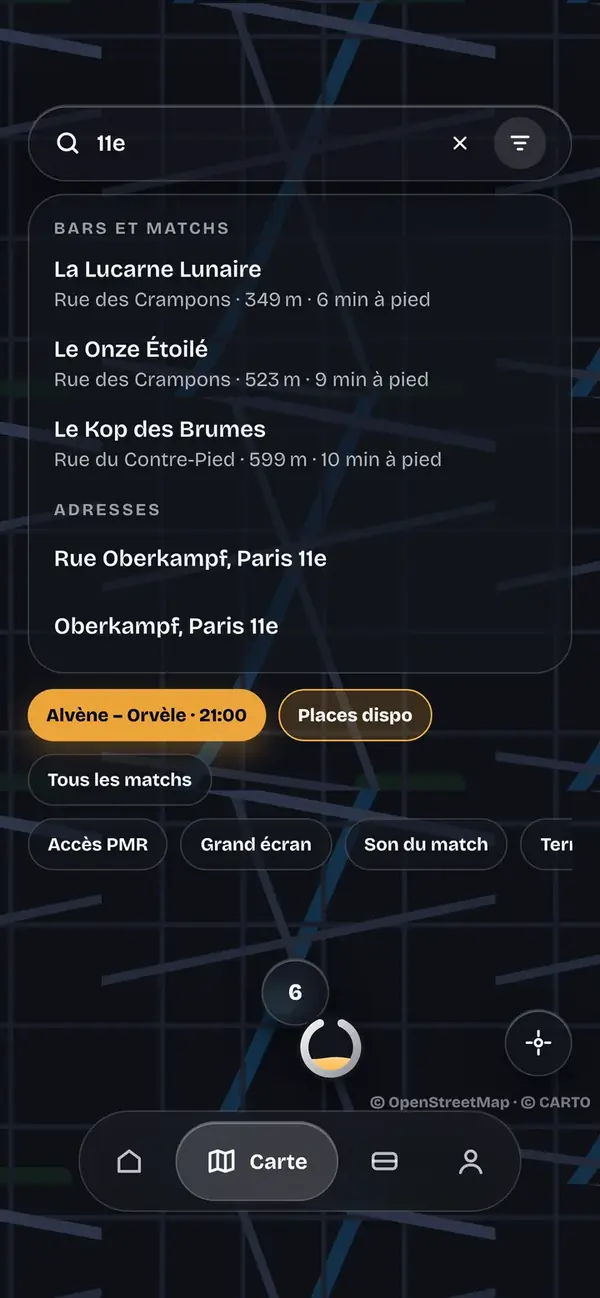
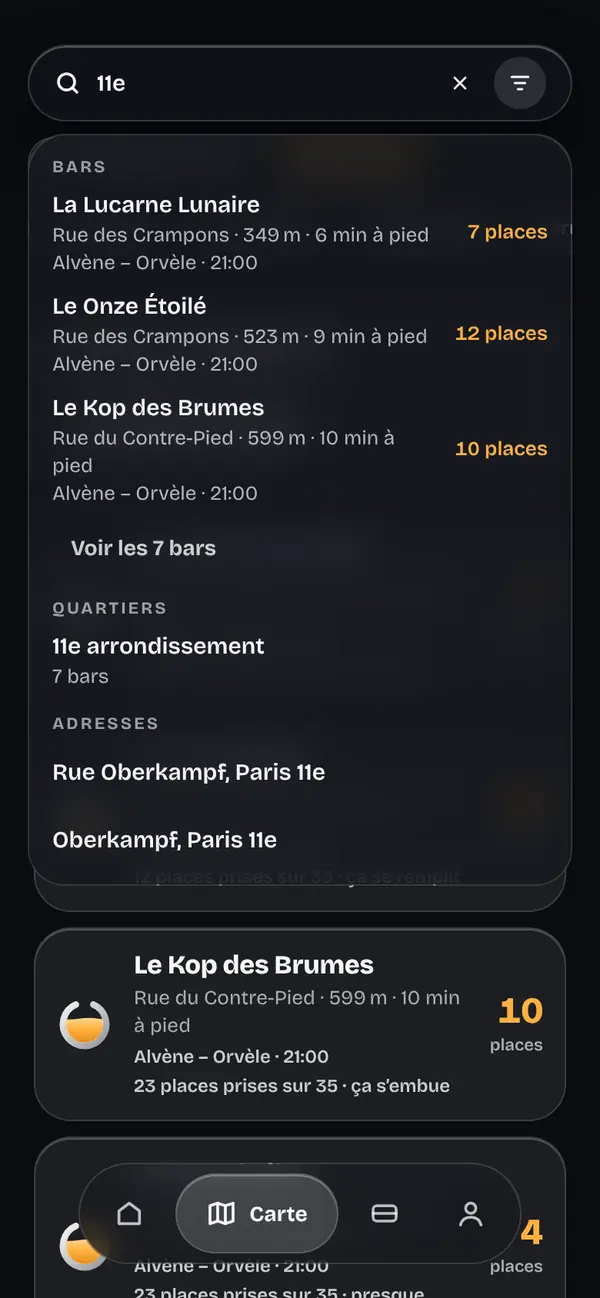
Accueil : les corrections des deux relectures (code et vérité, « trois visiteurs »)
- Presse : la phrase du film, coupée par une retouche ratée, est entière ; un test lit la phrase et vérifie qu’aucun
  morceau d’attribut ne traîne dans la page.
- Le film : quand la lecture automatique est refusée, le lecteur classique est à la personne ; une pause faite avec ses
  commandes tient (le défilement ne le relance plus).
- « Maintiens pour essayer » : un lecteur d’écran l’active d’un clic, sans pointeur, comme « Réserver sans maintenir »
  dans l’appli ; l’Espace tenu puis lâché trop tôt ne compte pas comme ce clic. Plus de vibration.
- Les phrases, au plus près de l’appli : la tablée (« Ceux qui la rejoignent dans l’appli ont chacun leur pass »,
  « jusqu’à 8 avec toi »), « Y aller » (ouvre le bar dans ton appli de cartes), la liste d’attente (le premier de la
  liste voit la place, elle n’est pas gardée), « Ce soir » (tout de suite s’il a déjà été regardé dans la journée).
- Plus court au téléphone : quatre écrans sur huit (les autres moments se lisent sans), des écrans un peu plus petits,
  des textes resserrés ; sur ordinateur, les huit, au bon format (292 px).
- La recherche de la carte, recapturée sans aucun plan derrière.
- Le texte du film dit aussi sa fin (l’album qui passe à 8 sous-bocks et 5 bars, 21:00, le verre qui se remplit), a
  le « + » des questions ; la note du film, plus simple.
- Les surtitres de l’accueil, neutres (l’ambre reste aux actions) ; la bande des bars dit la condition du lancement
[…]

diff --git a/index.html b/index.html
@@ -118,7 +118,7 @@
         <button class="film__bouton" id="film-lecture" type="button" hidden aria-label="Mettre le film en pause"><svg viewBox="0 0 24 24" fill="currentColor" aria-hidden="true" focusable="false"><path d="M7 5h3.5v14H7zM13.5 5H17v14h-3.5z"/></svg></button>
       </div>
       <figcaption class="film__legende">
-        <p class="film__note" id="film-note">Le film, sans le son, montre ce que dit le texte «&nbsp;Ce que montre le film&nbsp;», juste dessous. Ses bars, ses clubs, ses pseudos et ses chiffres sont inventés.</p>
+        <p class="film__note" id="film-note">Un film sans le son, raconté en mots juste dessous. Ses bars, ses clubs, ses pseudos et ses chiffres sont inventés.</p>
         <details class="film__texte" id="film-texte">
           <summary>Ce que montre le film</summary>
           <ol>
@@ -129,8 +129,8 @@
             <li>L’écran «&nbsp;Ta soirée&nbsp;»&nbsp;: «&nbsp;Ce soir · coup d’envoi 21:00&nbsp;», «&nbsp;Place gardée&nbsp;». Alvène – Orvèle, 21:00, au bar La Lucarne Lunaire, pour 1 personne, ton camp&nbsp;: juste le match. Le QR code du pass, et «&nbsp;Ou donne ce code&nbsp;».</li>
             <li>20:37. «&nbsp;Scanne le QR du bar&nbsp;», La Lucarne Lunaire · Alvène – Orvèle. Sur l’écran du bar&nbsp;: «&nbsp;Tu y es. Scanne-moi.&nbsp;» «&nbsp;Ouvre Baromatch, scanne ce code&nbsp;: ta place est validée et ton sous-bock se colle dans ton album.&nbsp;» Dessous, «&nbsp;ou entre son code&nbsp;».</li>
             <li>«&nbsp;Tu y es&nbsp;»&nbsp;: «&nbsp;Arrivée validée à 20:37 à La Lucarne Lunaire. Coup d’envoi dans 23 minutes.&nbsp;» «&nbsp;arrivée · deux vibrations&nbsp;», puis «&nbsp;Sous-bock n°08 collé&nbsp;».</li>
-            <li>20:38. «&nbsp;Ta soirée se colle dans ton album.&nbsp;» Le sous-bock n°08, Alvène – Orvèle, rejoint les autres&nbsp;: Alvène – Orvèle, Port-Ambrail – Brisecôte, Hautvergne – Mirebelle, Sablerive – Kerbrume, Lucival – Valbrume.</li>
-            <li>Baromatch. «&nbsp;Ton match. Ton bar. Ce soir.&nbsp;» «&nbsp;baromatch.fr&nbsp;» «&nbsp;Bientôt sur Android, à Paris&nbsp;»</li>
+            <li>20:38. «&nbsp;Ta soirée se colle dans ton album.&nbsp;» Le sous-bock n°08, Alvène – Orvèle, à La Lucarne Lunaire, se pose parmi les autres&nbsp;: Alvène – Orvèle, Port-Ambrail – Brisecôte, Hautvergne – Mirebelle, Sablerive – Kerbrume, Lucival – Valbrume. L’album passe de 7 à 8 sous-bocks, et de 4 à 5 bars.</li>
+            <li>21:00. Le sous-bock rejoint le verre de Baromatch, qui se remplit. Puis Baromatch&nbsp;: «&nbsp;Ton match. Ton bar. Ce soir.&nbsp;» «&nbsp;baromatch.fr&nbsp;» «&nbsp;Bientôt sur Android, à Paris&nbsp;»</li>
           </ol>
         </details>
       </figcaption>
@@ -138,9 +138,9 @@
   </section>
 
   <section class="soiree page" aria-labelledby="titre-soiree">
-    <p class="boutique-sur">Ce que fait l’appli aujourd’hui</p>
+    <p class="surtitre">Ce que fait l’appli aujourd’hui</p>
     <h2 class="titre-section" id="titre-soiree">Un soir de match, minute par minute.</h2>
-    <p class="soiree__chapo">L’appli est en test à Paris. Sur ses écrans, les bars, les clubs et les pseudos sont inventés.</p>
+    <p class="soiree__chapo">Sur ces écrans, les bars, les clubs et les pseudos sont inventés.</p>
     <!-- Sur ordinateur, les écrans restent à côté du texte, l’un sur l’autre : main.js montre celui du moment qui passe au
          milieu de la fenêtre. Au téléphone, chaque écran suit son moment. -->
     <div class="instants">
@@ -148,64 +148,64 @@
         <div class="instant__corps">
           <p class="instant__heure"><time>18:42</time></p>
           <h3 class="instant__titre">«&nbsp;Ce soir&nbsp;», tout de suite</h3>
-          <p class="instant__texte">Tu ouvres l’appli&nbsp;: le match de ce soir et les bars qui le passent sont déjà là. «&nbsp;Près de toi&nbsp;» te montre les bars les plus proches qui ont encore de la place, avec le temps à pied. Ta position reste sur ton téléphone.</p>
+          <p class="instant__texte">Tu ouvres l’appli&nbsp;: le match de ce soir, et les bars qui le passent. Déjà regardé aujourd’hui&nbsp;? Ils s’affichent tout de suite, même si le réseau traîne. «&nbsp;Près de toi&nbsp;» montre les plus proches qui ont encore de la place, avec le temps à pied. Ta position reste sur ton téléphone.</p>
         </div>
         <figure class="instant__ecran"><span class="exemple">Écran de démonstration</span>
-          <div class="telephone"><div class="telephone__ecran"><img src="/img/appli/ce-soir-300.webp" srcset="/img/appli/ce-soir-300.webp 300w, /img/appli/ce-soir-600.webp 600w" sizes="(min-width: 960px) 320px, 208px" width="300" height="649" loading="lazy" decoding="async" alt="L’écran Ce soir de l’appli&nbsp;: Alvène – Orvèle à 21:00, en Coupe des Faubourgs, puis Près de toi&nbsp;: La Lucarne Lunaire à 6 min à pied, encore 7 places, et Le Onze Étoilé à 9 min, encore 12 places."></div></div>
+          <div class="telephone"><div class="telephone__ecran"><img src="/img/appli/ce-soir-300.webp" srcset="/img/appli/ce-soir-300.webp 300w, /img/appli/ce-soir-600.webp 600w" sizes="(min-width: 960px) 292px, 192px" width="300" height="649" loading="lazy" decoding="async" alt="L’écran Ce soir de l’appli&nbsp;: Alvène – Orvèle à 21:00, en Coupe des Faubourgs, puis Près de toi&nbsp;: La Lucarne Lunaire à 6 min à pied, encore 7 places, et Le Onze Étoilé à 9 min, encore 12 places."></div></div>
         </figure>
       </div>
       <div class="instant">
         <div class="instant__corps">
           <p class="instant__heure"><time>18:50</time></p>
-          <h3 class="instant__titre">Complet&nbsp;? La liste d’attente</h3>
-          <p class="instant__texte">Le bar que tu voulais est plein&nbsp;? Mets-toi sur sa liste d’attente. Si une place se libère avant le coup d’envoi, l’appli te le dit, et elle va au premier qui la prend.</p>
+          <h3 class="instant__titre">Bar complet&nbsp;? Mets-toi sur la liste</h3>
+          <p class="instant__texte">Une place se libère avant le coup d’envoi, et tu es premier sur la liste&nbsp;? Tu la vois dans l’appli. Prends-la vite&nbsp;: elle n’est pas gardée pour toi.</p>
         </div>
-        <figure class="instant__ecran"><span class="exemple">Écran de démonstration</span>
-          <div class="telephone"><div class="telephone__ecran"><img src="/img/appli/liste-attente-300.webp" srcset="/img/appli/liste-attente-300.webp 300w, /img/appli/liste-attente-600.webp 600w" sizes="(min-width: 960px) 320px, 208px" width="300" height="649" loading="lazy" decoding="async" alt="La page d’un bar complet, Chez Zénon&nbsp;: une place s’est libérée pour Alvène – Orvèle, et le bouton «&nbsp;Prendre ma place&nbsp;»."></div></div>
+        <figure class="instant__ecran instant__ecran--large"><span class="exemple">Écran de démonstration</span>
+          <div class="telephone"><div class="telephone__ecran"><img src="/img/appli/liste-attente-300.webp" srcset="/img/appli/liste-attente-300.webp 300w, /img/appli/liste-attente-600.webp 600w" sizes="(min-width: 960px) 292px, 192px" width="300" height="649" loading="lazy" decoding="async" alt="La page d’un bar complet, Chez Zénon&nbsp;: une place s’est libérée pour Alvène – Orvèle, et le bouton «&nbsp;Prendre ma place&nbsp;»."></div></div>
         </figure>
       </div>
       <div class="instant">
         <div class="instant__corps">
           <p class="instant__heure"><time>19:05</time></p>
           <h3 class="instant__titre">La carte cherche pour toi</h3>
-          <p class="instant__texte">Tape un club, un bar, un quartier ou une adresse. Garde seulement les bars qui ont de la place, un grand écran, le son du match, une terrasse ou un accès PMR.</p>
+          <p class="instant__texte">Tape un club, un bar, un quartier ou une adresse. Filtre les bars&nbsp;: de la place, un grand écran, le son du match, une terrasse, un accès PMR.</p>
         </div>
-        <figure class="instant__ecran"><span class="exemple">Écran de démonstration</span>
-          <div class="telephone"><div class="telephone__ecran"><img src="/img/appli/carte-recherche-300.webp" srcset="/img/appli/carte-recherche-300.webp 300w, /img/appli/carte-recherche-600.webp 600w" sizes="(min-width: 960px) 320px, 208px" width="300" height="649" loading="lazy" decoding="async" alt="La carte de l’appli, avec la recherche «&nbsp;11e&nbsp;»&nbsp;: des bars du 11e, comme La Lucarne Lunaire rue des Crampons, et des adresses du quartier."></div></div>
+        <figure class="instant__ecran instant__ecran--large"><span class="exemple">Écran de démonstration</span>
+          <div class="telephone"><div class="telephone__ecran"><img src="/img/appli/carte-recherche-300.webp" srcset="/img/appli/carte-recherche-300.webp 300w, /img/appli/carte-recherche-600.webp 600w" sizes="(min-width: 960px) 292px, 192px" width="300" height="649" loading="lazy" decoding="async" alt="La recherche de l’appli, avec «&nbsp;11e&nbsp;»&nbsp;: des bars du 11e, comme La Lucarne Lunaire rue des Crampons, à 6 min à pied, encore 7 places, puis le quartier et des adresses."></div></div>
         </figure>
       </div>
       <div class="instant">
         <div class="instant__corps">
           <p class="instant__heure"><time>19:12</time></p>
           <h3 class="instant__titre">Garde ta place d’un geste</h3>
-          <p class="instant__texte">Tiens le bouton&nbsp;: le verre monte, la place est à toi. Pour toi seul ou jusqu’à 8, et c’est gratuit. Lâche avant la fin&nbsp;: rien n’est réservé.</p>
+          <p class="instant__texte">Maintiens le bouton&nbsp;: le verre se remplit, et la place est à toi, gratuitement. Lâche avant la fin&nbsp;: rien n’est réservé.</p>
           <div class="essai" id="essai" hidden>
             <button class="essai__bouton" id="essai-bouton" type="button"><span class="essai__verre" aria-hidden="true"><span class="essai__liquide"></span></span><span id="essai-mot">Maintiens pour essayer</span></button>
             <p class="essai__note" id="essai-note" role="status">Ici, c’est un essai&nbsp;: rien n’est réservé.</p>
           </div>
         </div>
         <figure class="instant__ecran"><span class="exemple">Écran de démonstration</span>
-          <div class="telephone"><div class="telephone__ecran"><img src="/img/appli/bar-300.webp" srcset="/img/appli/bar-300.webp 300w, /img/appli/bar-600.webp 600w" sizes="(min-width: 960px) 320px, 208px" width="300" height="649" loading="lazy" decoding="async" alt="La page d’un bar dans l’appli&nbsp;: La Lucarne Lunaire, 14 rue des Crampons, à 6 min à pied. Coin des supporters d’Orvèle, grand écran, 5 écrans, son du match, debout, les deux camps. 4 places prises, et le bouton «&nbsp;Prendre ma place&nbsp;»."></div></div>
+          <div class="telephone"><div class="telephone__ecran"><img src="/img/appli/bar-300.webp" srcset="/img/appli/bar-300.webp 300w, /img/appli/bar-600.webp 600w" sizes="(min-width: 960px) 292px, 192px" width="300" height="649" loading="lazy" decoding="async" alt="La page d’un bar dans l’appli&nbsp;: La Lucarne Lunaire, 14 rue des Crampons, à 6 min à pied. Coin des supporters d’Orvèle, grand écran, 5 écrans, son du match, debout, les deux camps. 4 places prises, et le bouton «&nbsp;Prendre ma place&nbsp;»."></div></div>
         </figure>
       </div>
       <div class="instant">
         <div class="instant__corps">
           <p class="instant__heure"><time>19:13</time></p>
           <h3 class="instant__titre">Ton pass, même sans réseau</h3>
-          <p class="instant__texte">Ta place t’attend dans «&nbsp;Ta soirée&nbsp;»&nbsp;: un QR code et un code à 6 chiffres, qui s’affichent même sans réseau. «&nbsp;Y aller&nbsp;» t’ouvre le chemin à pied.</p>
+          <p class="instant__texte">Ta place t’attend dans «&nbsp;Ta soirée&nbsp;»&nbsp;: un QR code et un code à 6 chiffres, qui s’affichent même sans réseau. «&nbsp;Y aller&nbsp;» ouvre le bar dans ton appli de cartes.</p>
         </div>
         <figure class="instant__ecran"><span class="exemple">Écran de démonstration</span>
-          <div class="telephone"><div class="telephone__ecran"><img src="/img/appli/ta-soiree-300.webp" srcset="/img/appli/ta-soiree-300.webp 300w, /img/appli/ta-soiree-600.webp 600w" sizes="(min-width: 960px) 320px, 208px" width="300" height="649" loading="lazy" decoding="async" alt="Ta soirée dans l’appli&nbsp;: Alvène – Orvèle à 21:00, à La Lucarne Lunaire, pour 1 personne, le QR code du pass et son code, et le bouton «&nbsp;Y aller · 6 min à pied&nbsp;»."></div></div>
+          <div class="telephone"><div class="telephone__ecran"><img src="/img/appli/ta-soiree-300.webp" srcset="/img/appli/ta-soiree-300.webp 300w, /img/appli/ta-soiree-600.webp 600w" sizes="(min-width: 960px) 292px, 192px" width="300" height="649" loading="lazy" decoding="async" alt="Ta soirée dans l’appli&nbsp;: Alvène – Orvèle à 21:00, à La Lucarne Lunaire, pour 1 personne, le QR code du pass et son code, et le bouton «&nbsp;Y aller · 6 min à pied&nbsp;»."></div></div>
         </figure>
       </div>
       <div class="instant">
         <div class="instant__corps">
           <p class="instant__heure"><time>19:20</time></p>
           <h3 class="instant__titre">Toute la bande à la même table</h3>
-          <p class="instant__texte">Tu gardes des places pour tes potes, jusqu’à 8, et tu leur envoies le lien de ta tablée. Chacun a son pass. Tu peux aussi partager l’image «&nbsp;J’y vais&nbsp;» en story.</p>
+          <p class="instant__texte">Garde des places pour ta bande, jusqu’à 8 avec toi, et envoie-leur le lien de ta tablée. Ceux qui la rejoignent dans l’appli ont chacun leur pass. Tu peux aussi l’annoncer en story, avec l’image de ta soirée.</p>
         </div>
-        <figure class="instant__ecran"><span class="exemple">Écran de démonstration</span>
-          <div class="telephone"><div class="telephone__ecran"><img src="/img/appli/tablee-300.webp" srcset="/img/appli/tablee-300.webp 300w, /img/appli/tablee-600.webp 600w" sizes="(min-width: 960px) 320px, 208px" width="300" height="649" loading="lazy" decoding="async" alt="Ta tablée, sous ton pass&nbsp;: 2 places prises sur 4, toi et plume.r, et 2 libres. «&nbsp;Envoie le lien à ta bande avant 21:00.&nbsp;» Les boutons «&nbsp;Inviter des potes&nbsp;» et «&nbsp;Copier le lien&nbsp;»."></div></div>
+        <figure class="instant__ecran instant__ecran--large"><span class="exemple">Écran de démonstration</span>
+          <div class="telephone"><div class="telephone__ecran"><img src="/img/appli/tablee-300.webp" srcset="/img/appli/tablee-300.webp 300w, /img/appli/tablee-600.webp 600w" sizes="(min-width: 960px) 292px, 192px" width="300" height="649" loading="lazy" decoding="async" alt="Ta tablée, sous ton pass&nbsp;: 2 places prises sur 4, toi et plume.r, et 2 libres. «&nbsp;Envoie le lien à ta bande avant 21:00.&nbsp;» Les boutons «&nbsp;Inviter des potes&nbsp;» et «&nbsp;Copier le lien&nbsp;»."></div></div>
         </figure>
       </div>
       <div class="instant">
@@ -214,22 +214,22 @@
           <h3 class="instant__titre">«&nbsp;Je suis en retard&nbsp;»</h3>
           <p class="instant__texte">Le métro traîne&nbsp;? Préviens le bar&nbsp;: 10, 20 ou 30 minutes. Avant d’envoyer, tu vois jusqu’à quelle heure ta place t’attend.</p>
         </div>
-        <figure class="instant__ecran"><span class="exemple">Écran de démonstration</span>
-          <div class="telephone"><div class="telephone__ecran"><img src="/img/appli/en-retard-300.webp" srcset="/img/appli/en-retard-300.webp 300w, /img/appli/en-retard-600.webp 600w" sizes="(min-width: 960px) 320px, 208px" width="300" height="649" loading="lazy" decoding="async" alt="Ta soirée, «&nbsp;Tu arrives dans combien de temps&nbsp;?&nbsp;»&nbsp;: 10, 20 ou 30 min. «&nbsp;Ta place est gardée jusqu’à 21:30.&nbsp;» Le bouton «&nbsp;Prévenir le bar&nbsp;»."></div></div>
+        <figure class="instant__ecran instant__ecran--large"><span class="exemple">Écran de démonstration</span>
+          <div class="telephone"><div class="telephone__ecran"><img src="/img/appli/en-retard-300.webp" srcset="/img/appli/en-retard-300.webp 300w, /img/appli/en-retard-600.webp 600w" sizes="(min-width: 960px) 292px, 192px" width="300" height="649" loading="lazy" decoding="async" alt="Ta soirée, «&nbsp;Tu arrives dans combien de temps&nbsp;?&nbsp;»&nbsp;: 10, 20 ou 30 min. «&nbsp;Ta place est gardée jusqu’à 21:30.&nbsp;» Le bouton «&nbsp;Prévenir le bar&nbsp;»."></div></div>
         </figure>
       </div>
       <div class="instant">
         <div class="instant__corps">
           <p class="instant__heure"><time>20:37</time></p>
           <h3 class="instant__titre">Tu y es</h3>
-          <p class="instant__texte">Au bar, scanne le QR du comptoir, ou montre ton pass à l’équipe. Deux vibrations&nbsp;: tu y es. Ta soirée devient un sous-bock aux noms des deux clubs, qui se colle dans ton album.</p>
+          <p class="instant__texte">Arrivé, scanne le QR du bar ou montre ton pass à l’équipe. Deux vibrations&nbsp;: tu y es. Ta soirée devient un sous-bock aux noms des deux clubs, collé dans ton album.</p>
         </div>
         <figure class="instant__ecran"><span class="exemple">Écran de démonstration</span>
-          <div class="telephone"><div class="telephone__ecran"><img src="/img/appli/tu-y-es-300.webp" srcset="/img/appli/tu-y-es-300.webp 300w, /img/appli/tu-y-es-600.webp 600w" sizes="(min-width: 960px) 320px, 208px" width="300" height="649" loading="lazy" decoding="async" alt="Tu y es&nbsp;: arrivée validée à 20:37 à La Lucarne Lunaire, coup d’envoi dans 23 minutes. Sous-bock n°08 collé."></div></div>
+          <div class="telephone"><div class="telephone__ecran"><img src="/img/appli/tu-y-es-300.webp" srcset="/img/appli/tu-y-es-300.webp 300w, /img/appli/tu-y-es-600.webp 600w" sizes="(min-width: 960px) 292px, 192px" width="300" height="649" loading="lazy" decoding="async" alt="Tu y es&nbsp;: arrivée validée à 20:37 à La Lucarne Lunaire, coup d’envoi dans 23 minutes. Sous-bock n°08 collé."></div></div>
         </figure>
       </div>
     </div>
-    <p class="soiree__notifs">Et au plus une notification par match. Une heure avant le coup d’envoi, une ligne calme sur ton écran verrouillé te rappelle ta place.</p>
+    <p class="soiree__notifs">Au plus une notification par match. Et une heure avant le coup d’envoi, une ligne calme sur ton écran verrouillé&nbsp;: ta place t’attend.</p>
     <p class="rappel-attente"><a class="capsule" href="#attente">L’appli ouvre bientôt&nbsp;: préviens-moi</a></p>
     <p class="soiree__suite"><a href="/ce-soir/">Où regarder le match ce soir</a></p>
   </section>
@@ -238,7 +238,7 @@
     <div class="bars__contenu page">
       <div>
         <h2 class="titre-section" id="titre-bars">Ton bar diffuse les matchs&nbsp;?</h2>
-        <p class="bars__texte">Baromatch cherche ses premiers bars à Paris. Tu choisis combien de places tu ouvres.</p>
+        <p class="bars__texte">Baromatch cherche ses premiers bars à Paris. Tu choisis combien de places tu ouvres. Gratuit pendant le lancement, sans engagement.</p>
         <div class="bars__actions">
           <a class="bouton-nuit" href="/pour-les-bars.html#proposer">Proposer mon bar</a>
           <a href="mailto:contact@baromatch.fr">contact@baromatch.fr</a>
@@ -257,12 +257,13 @@
       <div><dt>Pour qui</dt><dd>Les fans de foot de 18&nbsp;ans et plus, et les bars qui diffusent les matchs.</dd></div>
       <div><dt>Qui</dt><dd>Baromatch est édité par Skander Kamoun, son fondateur.</dd></div>
       <div><dt>Contact</dt><dd><a href="mailto:contact@baromatch.fr">contact@<wbr>baromatch.fr</a></dd></div>
+      <div><dt>Presse</dt><dd><a href="/presse.html">Logos, film, images et contact</a></dd></div>
     </dl>
     <p class="en-bref__suite"><a href="/trouver-un-bar-qui-diffuse-le-match.html">Comment trouver un bar qui diffuse le match</a></p>
   </section>
 
   <section class="testeurs-accueil vitrine-accueil page" aria-labelledby="titre-testeurs">
-    <p class="boutique-sur">Testeurs Android</p>
+    <p class="surtitre">Testeurs Android</p>
     <h2 class="titre-section" id="titre-testeurs">Teste Baromatch avant son ouverture.</h2>
     <p class="testeurs-accueil__texte">Tu as 18&nbsp;ans ou plus, un téléphone Android et un compte Google&nbsp;? Inscris-toi au test fermé de l’appli sur Google Play&nbsp;: tu restes inscrit au moins 14&nbsp;jours d’affilée, tu t’en sers, et tu nous dis ce que tu en penses. Rien n’est payé.</p>
     <a class="vitrine-accueil__bouton vitrine-accueil__bouton--verre" href="/testeurs-android.html">Deviens testeur Android</a>
@@ -306,7 +307,7 @@
   </section>
 
   <section class="vitrine-accueil page" aria-labelledby="titre-boutique">
-    <p class="boutique-sur">Nouveau</p>
+    <p class="surtitre">Nouveau</p>
     <h2 class="titre-section" id="titre-boutique">La boutique arrive.</h2>
     <p class="vitrine-accueil__texte">T-shirt, sweat, casquette, écharpe, tote bag et sous-bocks&nbsp;: des pièces Baromatch pour les soirs de match, sans aucun club dessus. Choisis les tiennes dès maintenant&nbsp;: on t’écrit à l’ouverture, sans rien payer.</p>
     <a class="vitrine-accueil__bouton vitrine-accueil__bouton--verre" href="/boutique.html">Voir la boutique</a>

diff --git a/main.js b/main.js
@@ -196,11 +196,9 @@
   });
 })();
 
-/* Le film, sans le son : il part seul, muet, en boucle, quand il arrive à l’écran (preload="none" : rien ne se charge
-   avant), et s’arrête quand il en sort. Le bouton du cadre l’arrête (WCAG 2.2.2) et la pause tient : le film ne repart
-   pas en revenant à l’écran. Le bouton dit ce qu’il fera (« Mettre le film en pause » / « Lire le film »), sans état
-   « enfoncé » qui contredirait son nom (4.1.2). En mouvement réduit, en économie de données, ou si le navigateur refuse
-   la lecture automatique, le lecteur classique remplace le bouton. */
+/* Le film, sans le son : il part seul, en boucle, à l’écran (rien ne se charge avant), et s’arrête hors de l’écran.
+   Son bouton l’arrête (WCAG 2.2.2), et la pause tient. Le bouton dit ce qu’il fera, sans état « enfoncé » (4.1.2). En
+   mouvement réduit, en économie de données, ou si la lecture automatique est refusée : le lecteur classique. */
 (function () {
   var video = document.getElementById("film");
   var lecture = document.getElementById("film-lecture");
@@ -211,17 +209,18 @@
   var econome = navigator.connection && navigator.connection.saveData;
   // Vrai quand la personne a mis le film en pause : il ne repart alors que par son bouton.
   var arreteParToi = false;
+  var observateur = null;
 
-  // Le focus du bouton qui s’efface passe au lecteur classique qui le remplace, pas à la page.
+  // Le focus du bouton passe au lecteur classique, qui est à la personne : le défilement ne le lance plus.
   function lecteurClassique() {
     var avaitLeFocus = document.activeElement === lecture;
+    if (observateur) observateur.disconnect();
     video.controls = true;
     lecture.hidden = true;
     if (avaitLeFocus) video.focus();
   }
 
-  // Une lecture refusée (lecture automatique bloquée, film illisible) passe au lecteur classique. Une lecture annulée
-  // par une pause avant d’avoir commencé (AbortError : le film se chargeait encore) n’est pas un refus.
+  // Une lecture refusée passe au lecteur classique ; une lecture annulée par une pause (AbortError) n’est pas un refus.
   function lire() {
     var essai = video.play();
     if (essai && essai.catch) {
@@ -245,12 +244,13 @@
   video.addEventListener("play", direLaLecture);
   video.addEventListener("pause", direLaLecture);
   if ("IntersectionObserver" in window) {
-    new IntersectionObserver(function (entrees) {
+    observateur = new IntersectionObserver(function (entrees) {
       entrees.forEach(function (entree) {
         if (!entree.isIntersecting) video.pause();
         else if (!arreteParToi) lire();
       });
-    }, { threshold: 0.35 }).observe(video);
+    }, { threshold: 0.35 });
+    observateur.observe(video);
   }
 
   lecture.addEventListener("click", function () {
@@ -260,9 +260,8 @@
   });
 })();
 
-/* Un soir de match, minute par minute. Ses écrans ne se chargent qu’en approchant (.est-proche, 600 px avant) : le
-   premier affichage de l’accueil n’en paie aucun. Sur ordinateur, ils sont empilés à côté des moments (.instant), et
-   celui du moment qui passe au milieu de la fenêtre se montre (.est-actif). */
+/* Un soir de match : ses écrans ne se chargent qu’à 600 px de la section (.est-proche). Sur ordinateur, ils sont
+   empilés à côté des moments (.instant), et celui du moment au milieu de la fenêtre se montre (.est-actif). */
 (function () {
   var soiree = document.querySelector(".soiree");
   var instants = document.querySelectorAll(".instant");
@@ -279,8 +278,7 @@
   }, { rootMargin: "600px 0px" });
   approche.observe(soiree);
 
-  // Les moments dans la bande du milieu de la fenêtre (30 % de sa hauteur) ; le plus proche du milieu est le moment en
-  // cours. Bande vide (au-dessus ou au-dessous de la liste) : le moment en cours ne change pas.
+  // Parmi les moments dans la bande du milieu (30 % de la fenêtre), le plus proche du milieu ; bande vide : rien ne change.
   var dansLaBande = [];
   var milieu = new IntersectionObserver(function (entrees) {
     entrees.forEach(function (entree) {
@@ -304,8 +302,8 @@
 
 /* « Maintiens pour essayer » : le geste de l’appli. Tenir le bouton (doigt, souris, ou Espace et Entrée au clavier)
    remplit le verre en 1,4 s ; lâcher avant le vide. Plein, il dit « Place gardée. », puis revient au départ. Rien
-   n’est envoyé ni réservé : la note, lue par les lecteurs d’écran (role="status"), le dit. En mouvement réduit, un
-   appui suffit. */
+   n’est envoyé ni réservé : la note, lue par les lecteurs d’écran (role="status"), le dit. En mouvement réduit, ou
+   avec un lecteur d’écran (un clic sans pointeur), un appui suffit. */
 (function () {
   var essai = document.getElementById("essai");
   var bouton = document.getElementById("essai-bouton");
@@ -317,13 +315,14 @@
   var DEPART = note.textContent;
   var minuteur = 0;
   var retour = 0;
+  // Vrai le temps d’une touche tenue : l’Espace lâché ne doit pas compter comme un clic de lecteur d’écran.
+  var clavier = false;
 
   function remplir() {
     bouton.classList.remove("est-tenu");
     bouton.classList.add("est-plein");
     mot.textContent = "Place gardée.";
     note.textContent = "C’était un essai\u00a0: rien n’est réservé.";
-    if (navigator.vibrate) navigator.vibrate(12);
     retour = setTimeout(function () {
       bouton.classList.remove("est-plein");
       mot.textContent = "Maintiens pour essayer";
@@ -335,6 +334,7 @@
     if (evenement.type === "keydown" && (evenement.repeat || (evenement.key !== " " && evenement.key !== "Enter"))) return;
     if (evenement.type === "pointerdown" && evenement.button !== 0) return;
     evenement.preventDefault();
+    if (evenement.type === "keydown") clavier = true;
     if (bouton.classList.contains("est-plein") || bouton.classList.contains("est-tenu")) return;
     clearTimeout(retour);
     if (calme) {
@@ -345,11 +345,12 @@
     minuteur = setTimeout(remplir, 1400);
   }
 
-  function lacher() {
+  function lacher(evenement) {
+    if (evenement.type === "keyup") setTimeout(function () { clavier = false; }, 0);
     if (!bouton.classList.contains("est-tenu")) return;
     clearTimeout(minuteur);
     bouton.classList.remove("est-tenu");
-    note.textContent = "Lâché trop tôt\u00a0: le verre se vide. Garde le doigt appuyé jusqu’au bout.";
+    note.textContent = "Lâché trop tôt\u00a0: le verre se vide. Tiens jusqu’au bout.";
   }
 
   bouton.addEventListener("pointerdown", tenir);
@@ -358,5 +359,13 @@
     bouton.addEventListener(type, lacher);
   });
   bouton.addEventListener("contextmenu", function (evenement) { evenement.preventDefault(); });
+  // Un lecteur d’écran active un bouton par un simple clic, sans pointeur ni touche tenue : ce clic remplit le verre, comme
+  // « Réserver sans maintenir » dans l’appli.
+  bouton.addEventListener("click", function (evenement) {
+    if (evenement.detail === 0 && !clavier && !bouton.classList.contains("est-plein")) {
+      clearTimeout(retour);
+      remplir();
+    }
+  });
   essai.hidden = false;
 })();

diff --git a/styles.css b/styles.css
@@ -479,10 +479,13 @@ a:hover { color: var(--goutte); }
   letter-spacing: -0.02em;
 }
 
+/* Le surtitre d’une section : il dit de quoi elle parle, en petites capitales, sans ambre (l’ambre est pour les actions). */
+.surtitre { margin: 0 0 14px; color: var(--texte-discret); font-size: 0.8125rem; font-weight: 700; letter-spacing: 0.14em; text-transform: uppercase; }
+
 .soiree__chapo { max-width: 34rem; margin: 20px 0 0; color: var(--texte-doux); }
 
 /* Un moment de la soirée (.instant) : l’heure, ce qui se passe, une phrase ou deux, puis son écran (au téléphone). */
-.instants { display: grid; grid-template-columns: minmax(0, 1fr); gap: 64px; margin-top: 56px; }
+.instants { display: grid; grid-template-columns: minmax(0, 1fr); gap: 48px; margin-top: 48px; }
 .instant__corps { max-width: 34rem; }
 .instant__heure {
   margin: 0 0 6px;
@@ -494,7 +497,9 @@ a:hover { color: var(--goutte); }
 }
 .instant__titre { margin: 0; font-size: 1.375rem; font-weight: 750; line-height: 1.2; text-wrap: balance; }
 .instant__texte { margin: 10px 0 0; color: var(--texte-doux); }
-.instant__ecran { position: relative; width: 13rem; max-width: 100%; margin: 32px auto 0; }
+.instant__ecran { position: relative; width: 12rem; max-width: 100%; margin: 28px auto 0; }
+/* Au téléphone, quatre écrans sur huit : les autres moments se lisent sans (la page reste courte). */
+@media (max-width: 959px) { .instant__ecran--large { display: none; } }
 /* Les écrans ne se chargent qu’en approchant de la soirée (main.js pose .est-proche) : la place de chacun est gardée,
    rien ne bouge quand il arrive. */
 .instant__ecran .telephone__ecran { aspect-ratio: 300 / 649; }
@@ -852,7 +857,7 @@ a:hover { color: var(--goutte); }
     grid-column: 3;
     grid-row: 1 / -1;
     align-self: center;
-    width: clamp(15rem, calc((100vh - 230px) * 0.5625), 23rem);
+    width: clamp(240px, calc((100vh - 230px) * 0.5625), 23rem);
     margin: 0 0 0 clamp(32px, 6vw, 96px);
   }
   .film__cadre { transform: rotateY(-9deg) rotateX(2deg); }
@@ -884,7 +889,12 @@ a:hover { color: var(--goutte); }
 .film__legende { margin-top: 16px; }
 .film__note { margin: 0; color: var(--texte-discret); font-size: 0.875rem; line-height: 1.45; }
 .film__texte { margin-top: 2px; }
-.film__texte summary { display: flex; align-items: center; min-height: 44px; color: var(--texte-doux); font-size: 0.9375rem; font-weight: 600; cursor: pointer; }
+.film__texte summary { display: flex; align-items: center; gap: 10px; min-height: 44px; color: var(--texte-doux); font-size: 0.9375rem; font-weight: 600; list-style: none; cursor: pointer; }
+.film__texte summary::-webkit-details-marker { display: none; }
+/* Le « + » des questions de l’accueil : le texte se déplie. */
+.film__texte summary::after { content: "+"; font-size: 1.25rem; font-weight: 400; line-height: 1; transition: transform 200ms var(--sortie-douce); }
+.film__texte[open] summary::after { transform: rotate(45deg); }
+@media (prefers-reduced-motion: reduce) { .film__texte summary::after { transition: none; } }
 .film__texte summary:hover { color: var(--ambre); }
 .film__texte ol { margin: 4px 0 8px; padding-left: 1.4em; color: var(--texte-doux); font-size: 0.9375rem; }
 .film__texte li { margin: 6px 0; }

diff --git a/presse.html b/presse.html
@@ -117,7 +117,8 @@
   </ul>
 
   <h2 id="film">Le film</h2>
-  <p>Le film de présentation de Baromatch&nbsp;: 15&nbsp;secondes, sans le s<a class="presse__film" href="/baromatch-film.mp4"><img src="/baromatch-film.webp" width="540" height="960" loading="lazy" alt="Voir le film de Baromatch&nbsp;: son affiche, «&nbsp;On regarde le match où ce soir&nbsp;?&nbsp;», au-dessus d’un quartier où des bars s’allument"></a>lm de Baromatch : son affiche, Ce soir, y a match., au-dessus du verre de lumière"></a>
+  <p>Le film de présentation de Baromatch&nbsp;: 15&nbsp;secondes, sans le son, en portrait. Ses bars, ses clubs, ses pseudos et ses chiffres sont inventés.</p>
+  <a class="presse__film" href="/baromatch-film.mp4"><img src="/baromatch-film.webp" width="540" height="960" loading="lazy" alt="Voir le film de Baromatch&nbsp;: son affiche, «&nbsp;On regarde le match où ce soir&nbsp;?&nbsp;», au-dessus d’un quartier où des bars s’allument"></a>
   <p class="presse__fichiers"><a href="/baromatch-film.mp4">Le film (MP4)</a><a href="/#film-texte">Ce que montre le film, en texte</a></p>
 
   <h2 id="contact">Contact presse</h2>
